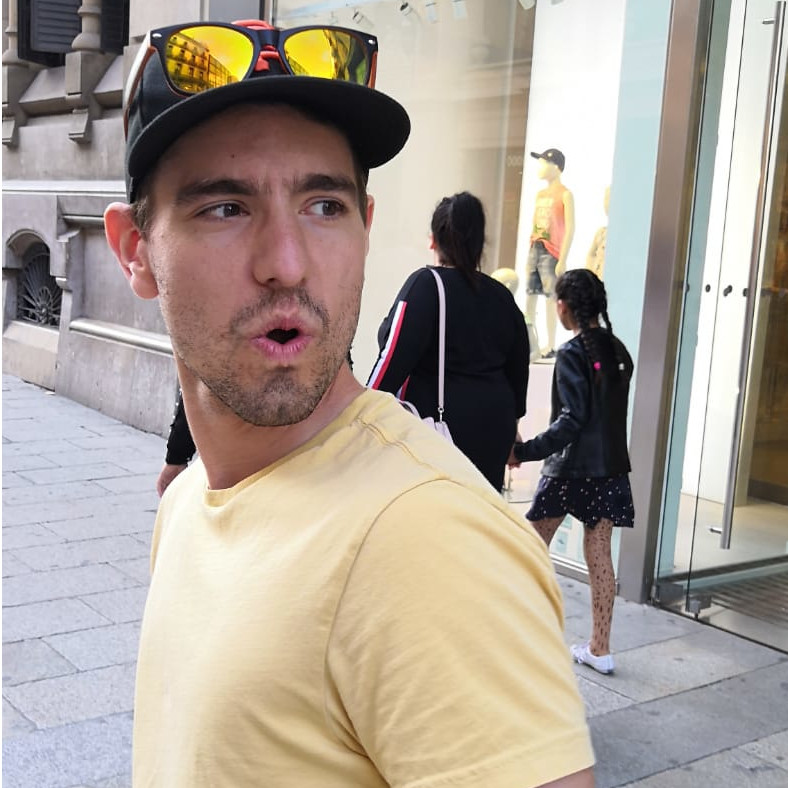
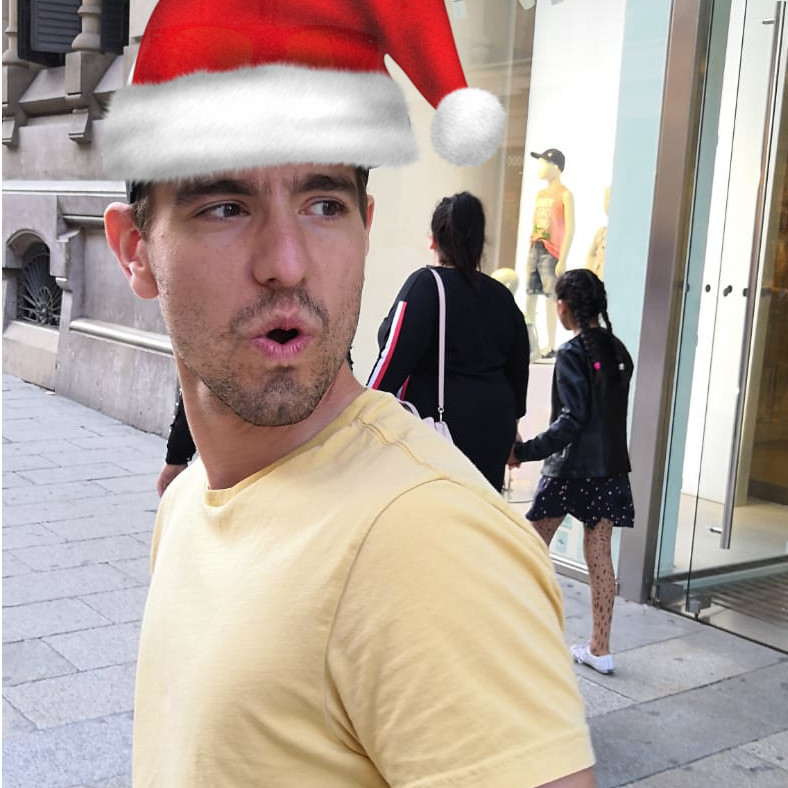
xmas edition

Changed region(s): [[0.1218, 0.0, 0.6396, 0.2437]]

diff --git a/templates/base.html b/templates/base.html
@@ -4,7 +4,7 @@
     <title>Dollbergio</title>
     <meta name="description" content="Dollbergio">
     <meta property="og:title" content="Dollbergio" />
-    <meta property="og:url" content="https://dollberg.io/" />
+    <meta property="og:url" content="https://xmas.dollberg.io/" />
     <meta property="og:description" content="Dollbergio">
     <meta property="og:type" content="article" />
     <meta property="og:image" content="/memes/{{ imghash }}.jpg">
